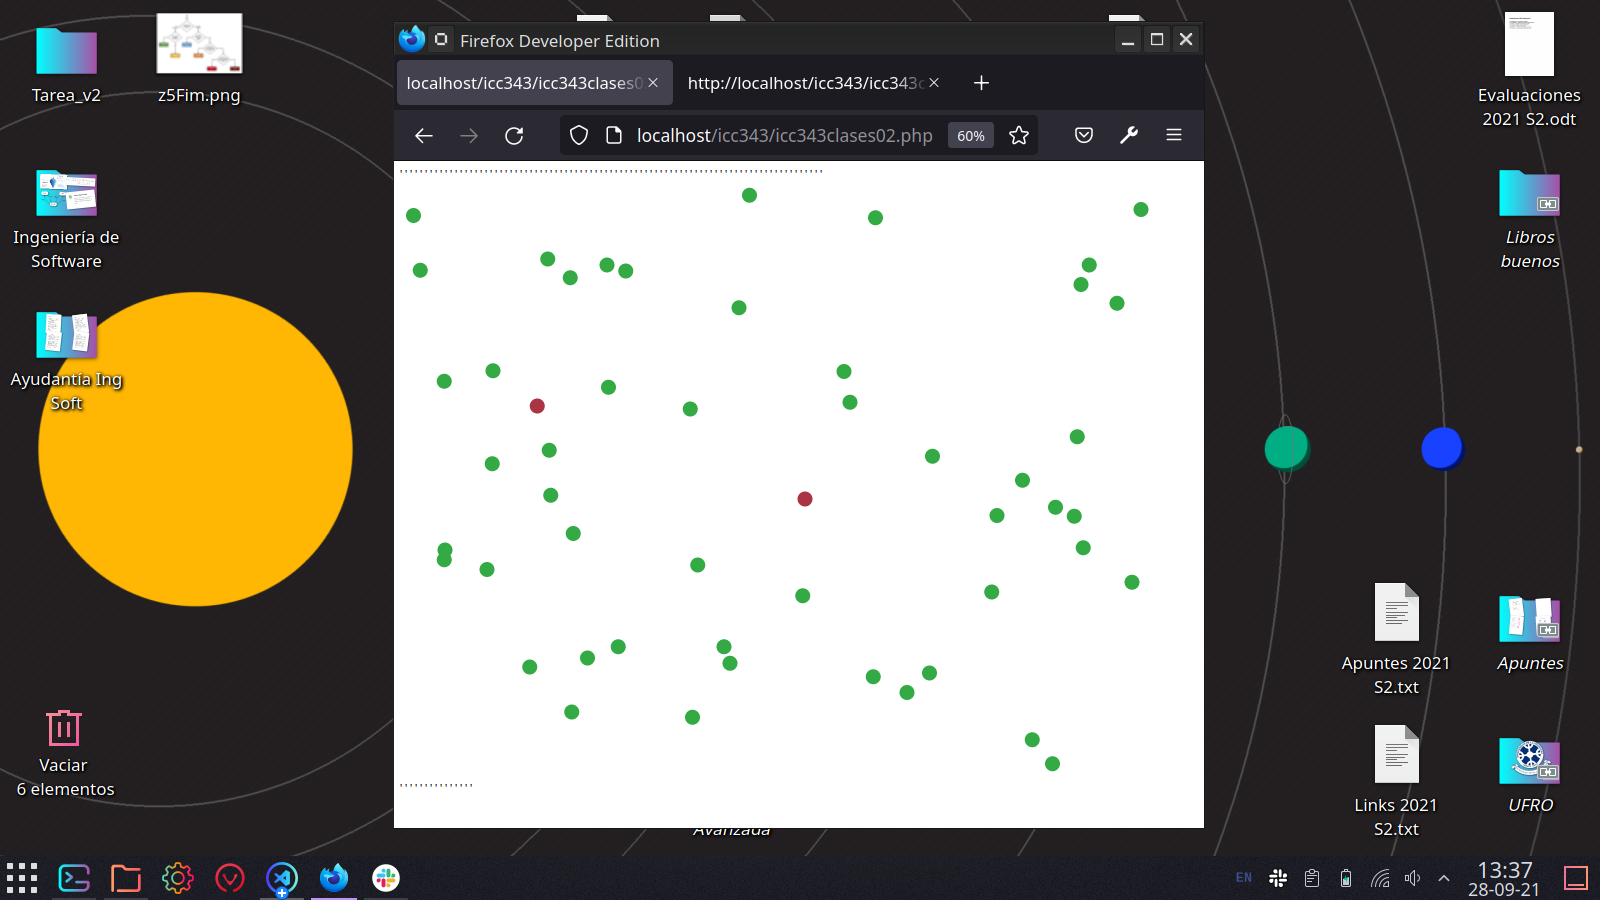
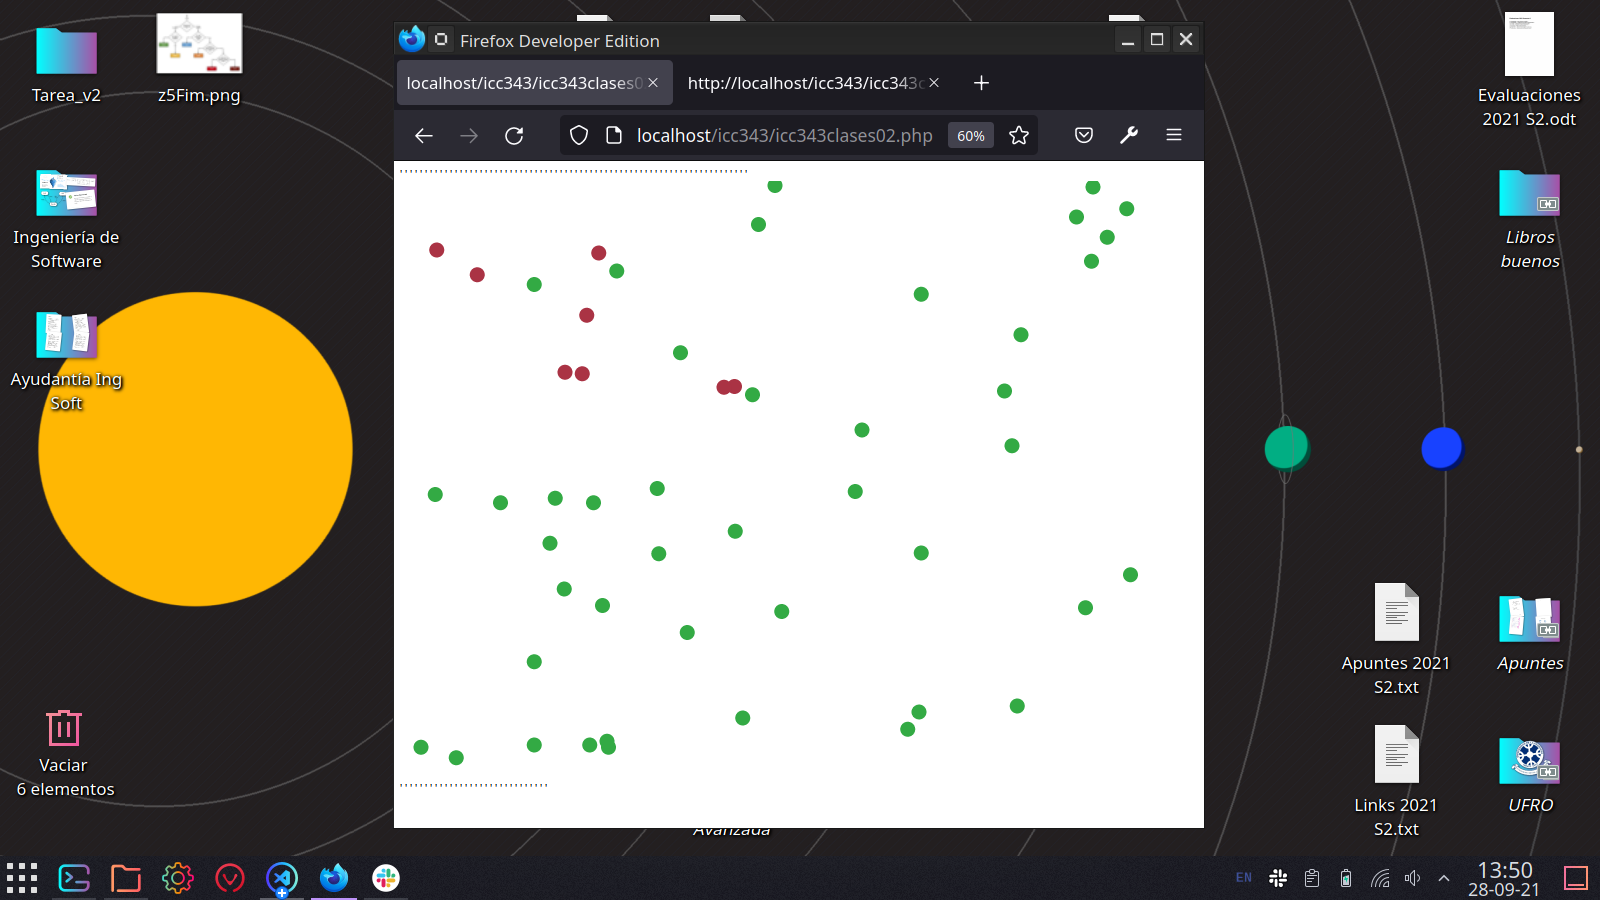
Tutorial 6 - Parte 4 (corregido)

diff --git a/Tutorial 6/class.Ente.php b/Tutorial 6/class.Ente.php
@@ -69,7 +69,7 @@ class Ente {
     }
 
     function chocaCon($otro) {
-        return $this->calcularDistancia($otro) <= $this->radio;
+        return $this->calcularDistancia($otro) < $this->radio * 2; // diámetro
     }
 
     function contagia($otro) {
